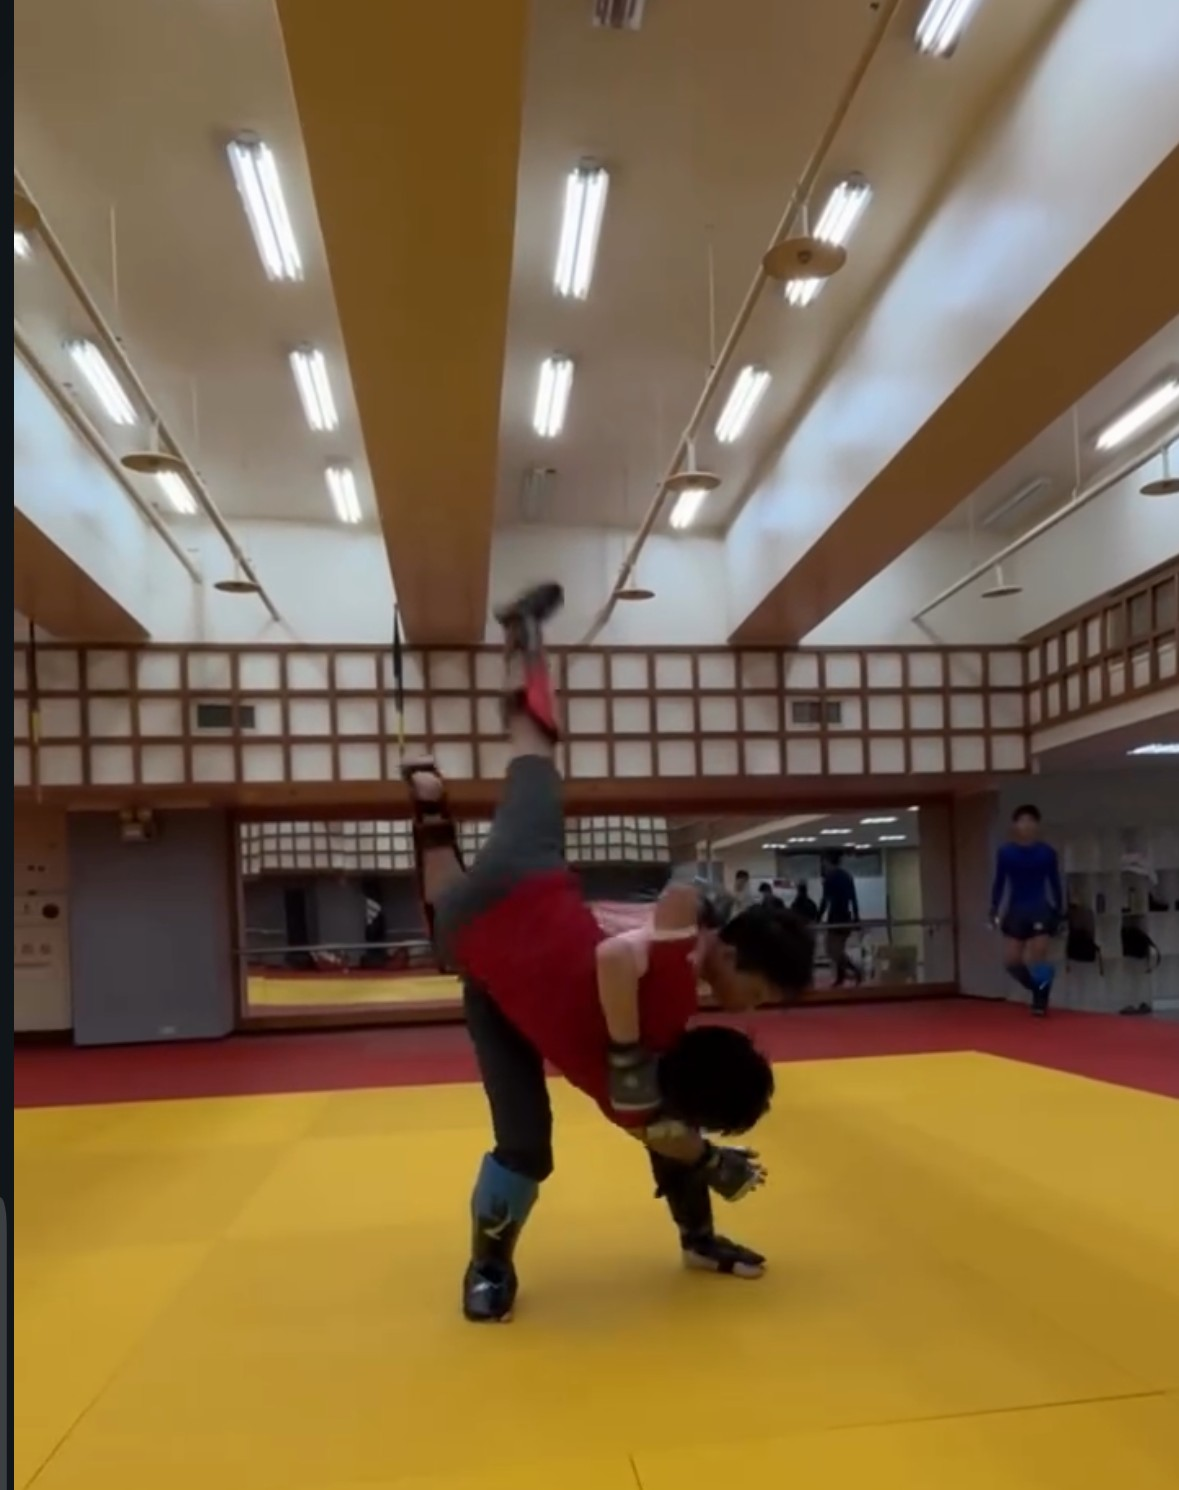
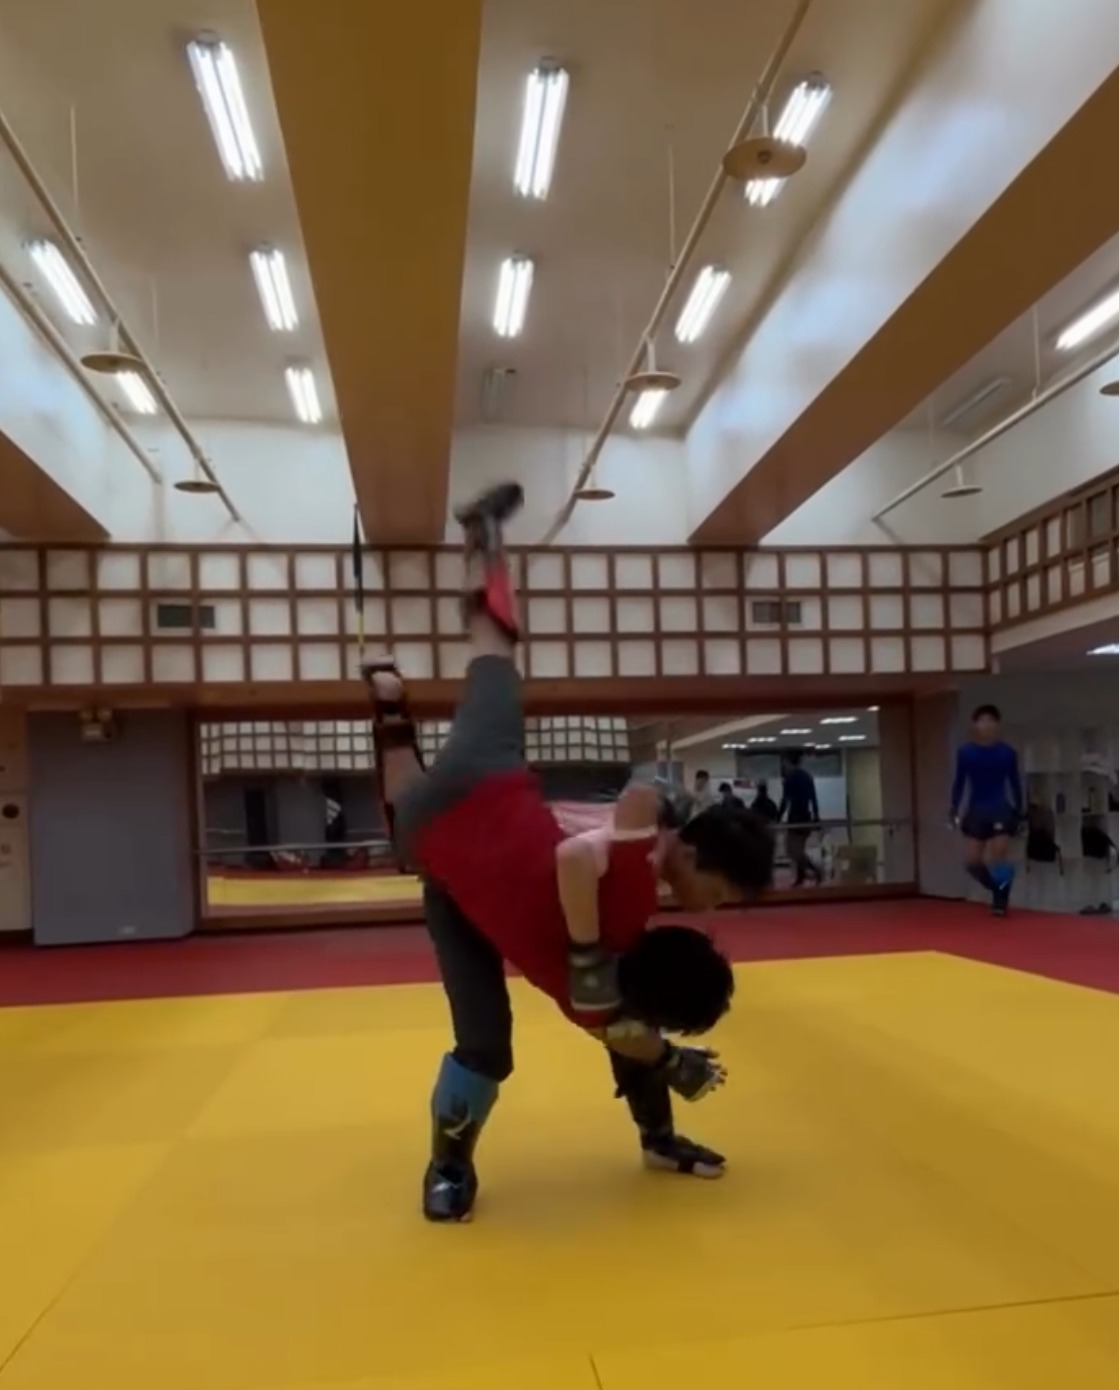
fix(ui): trim MMA left border, shift trekking poles to screen edges, add dark glass headers, click-to-switch multi-photo

diff --git a/src/components/AscentMode.tsx b/src/components/AscentMode.tsx
@@ -289,23 +289,24 @@ export const AscentMode: React.FC<AscentModeProps> = ({ onSelectWork }) => {
         <div className="absolute inset-0 bg-radial-gradient from-transparent via-[#0f1115]/40 to-[#0f1115]" />
       </div>
 
-      {/* 🧗♂ LAYER 2: Foreground Hands Layer (z-50, split clip-path, 0.95x scale & base sunk to 0.7x height) */}
-      {/* Hands image set to 0.95x scale (max-w-[950px] scale-95), sunk down (bottom-[-150px]) so only 70% of hand height shows */}
-      <div className="fixed bottom-[-150px] left-1/2 -translate-x-1/2 z-50 pointer-events-none w-full max-w-5xl h-[520px] flex justify-center items-end overflow-hidden">
-        {/* Left Hand Element */}
+      {/* 🧗♂ LAYER 2: Foreground Hands & Trekking Poles (Anchored to Left and Right Screen Edges to Keep Center Content Clear) */}
+      {/* Left Hand Element */}
+      <div className="fixed bottom-[-160px] left-[-70px] sm:left-[-30px] xl:left-[1%] z-20 pointer-events-none w-[340px] sm:w-[420px] lg:w-[460px] h-[520px] overflow-hidden">
         <img
           ref={leftHandRef}
           src="/hands_transparent.png"
           alt="Left Gloved Trekking Hand"
-          className="absolute bottom-0 w-full max-w-[950px] object-contain drop-shadow-2xl opacity-95 transform scale-95 origin-bottom"
+          className="absolute bottom-0 left-0 w-[680px] sm:w-[840px] lg:w-[920px] max-w-none object-contain drop-shadow-2xl opacity-90 origin-bottom"
           style={{ clipPath: 'polygon(0 0, 50% 0, 50% 100%, 0 100%)' }}
         />
-        {/* Right Hand Element */}
+      </div>
+      {/* Right Hand Element */}
+      <div className="fixed bottom-[-160px] right-[-70px] sm:right-[-30px] xl:right-[1%] z-20 pointer-events-none w-[340px] sm:w-[420px] lg:w-[460px] h-[520px] overflow-hidden">
         <img
           ref={rightHandRef}
           src="/hands_transparent.png"
           alt="Right Gloved Trekking Hand"
-          className="absolute bottom-0 w-full max-w-[950px] object-contain drop-shadow-2xl opacity-95 transform scale-95 origin-bottom"
+          className="absolute bottom-0 right-0 w-[680px] sm:w-[840px] lg:w-[920px] max-w-none object-contain drop-shadow-2xl opacity-90 origin-bottom"
           style={{ clipPath: 'polygon(50% 0, 100% 0, 100% 100%, 50% 100%)' }}
         />
       </div>
@@ -394,13 +395,13 @@ export const AscentMode: React.FC<AscentModeProps> = ({ onSelectWork }) => {
            SCENE 2: BASECAMP // CURIOSITY VAULT (800m)
            ========================================================================= */}
         <section className="ascent-milestone space-y-10 pt-12">
-          <div className="flex items-center gap-3">
-            <span className="text-xs font-mono px-2.5 py-1 rounded bg-teal-500/10 text-teal-400 border border-teal-500/20 backdrop-blur-md">
+          <div className="inline-flex items-center gap-3.5 px-4 py-2.5 rounded-2xl bg-[#12151b]/85 border border-white/10 backdrop-blur-md shadow-xl">
+            <span className="text-xs font-mono px-2.5 py-1 rounded bg-teal-500/10 text-teal-400 border border-teal-500/20">
               800m
             </span>
             <div>
-              <span className="text-[10px] font-mono text-slate-500 uppercase tracking-widest">WAYPOINT 01</span>
-              <h2 className="text-2xl font-bold text-[#f0ede6] tracking-wide">Basecamp: Identity & Vault</h2>
+              <span className="text-[10px] font-mono text-teal-400/80 uppercase tracking-widest">WAYPOINT 01</span>
+              <h2 className="text-xl sm:text-2xl font-bold text-teal-200 tracking-wide">Basecamp: Identity & Vault</h2>
             </div>
           </div>
 
@@ -448,13 +449,13 @@ export const AscentMode: React.FC<AscentModeProps> = ({ onSelectWork }) => {
            SCENE 3: CLINICAL AI RIDGE (1600m)
            ========================================================================= */}
         <section className="ascent-milestone space-y-8">
-          <div className="flex items-center gap-3">
-            <span className="text-xs font-mono px-2.5 py-1 rounded bg-emerald-500/10 text-emerald-400 border border-emerald-500/20 backdrop-blur-md">
+          <div className="inline-flex items-center gap-3.5 px-4 py-2.5 rounded-2xl bg-[#12151b]/85 border border-white/10 backdrop-blur-md shadow-xl">
+            <span className="text-xs font-mono px-2.5 py-1 rounded bg-emerald-500/10 text-emerald-400 border border-emerald-500/20">
               1600m
             </span>
             <div>
-              <span className="text-[10px] font-mono text-slate-500 uppercase tracking-widest">WAYPOINT 02</span>
-              <h2 className="text-2xl font-bold text-[#f0ede6] tracking-wide">Clinical AI & Research Station</h2>
+              <span className="text-[10px] font-mono text-emerald-400/80 uppercase tracking-widest">WAYPOINT 02</span>
+              <h2 className="text-xl sm:text-2xl font-bold text-emerald-200 tracking-wide">Clinical AI & Research Station</h2>
             </div>
           </div>
 
@@ -524,13 +525,13 @@ export const AscentMode: React.FC<AscentModeProps> = ({ onSelectWork }) => {
            SCENE 4: TECH HIGH PASS (2400m)
            ========================================================================= */}
         <section className="ascent-milestone space-y-8">
-          <div className="flex items-center gap-3">
-            <span className="text-xs font-mono px-2.5 py-1 rounded bg-sky-500/10 text-sky-400 border border-sky-500/20 backdrop-blur-md">
+          <div className="inline-flex items-center gap-3.5 px-4 py-2.5 rounded-2xl bg-[#12151b]/85 border border-white/10 backdrop-blur-md shadow-xl">
+            <span className="text-xs font-mono px-2.5 py-1 rounded bg-sky-500/10 text-sky-400 border border-sky-500/20">
               2400m
             </span>
             <div>
-              <span className="text-[10px] font-mono text-slate-500 uppercase tracking-widest">WAYPOINT 03</span>
-              <h2 className="text-2xl font-bold text-[#f0ede6] tracking-wide">Tech High Pass: Code Systems</h2>
+              <span className="text-[10px] font-mono text-sky-400/80 uppercase tracking-widest">WAYPOINT 03</span>
+              <h2 className="text-xl sm:text-2xl font-bold text-sky-200 tracking-wide">Tech High Pass: Code Systems</h2>
             </div>
           </div>
 
@@ -582,13 +583,13 @@ export const AscentMode: React.FC<AscentModeProps> = ({ onSelectWork }) => {
            SCENE 5: AUDIO PLATEAU (3200m)
            ========================================================================= */}
         <section className="ascent-milestone space-y-8">
-          <div className="flex items-center gap-3">
-            <span className="text-xs font-mono px-2.5 py-1 rounded bg-purple-500/10 text-purple-400 border border-purple-500/20 backdrop-blur-md">
+          <div className="inline-flex items-center gap-3.5 px-4 py-2.5 rounded-2xl bg-[#12151b]/85 border border-white/10 backdrop-blur-md shadow-xl">
+            <span className="text-xs font-mono px-2.5 py-1 rounded bg-purple-500/10 text-purple-400 border border-purple-500/20">
               3200m
             </span>
             <div>
-              <span className="text-[10px] font-mono text-slate-500 uppercase tracking-widest">WAYPOINT 04</span>
-              <h2 className="text-2xl font-bold text-[#f0ede6] tracking-wide">Audio Plateau: Compositions</h2>
+              <span className="text-[10px] font-mono text-purple-400/80 uppercase tracking-widest">WAYPOINT 04</span>
+              <h2 className="text-xl sm:text-2xl font-bold text-purple-200 tracking-wide">Audio Plateau: Compositions</h2>
             </div>
           </div>
 
@@ -713,13 +714,13 @@ export const AscentMode: React.FC<AscentModeProps> = ({ onSelectWork }) => {
            SCENE 6: OTHER INTERESTS (3600m)
            ========================================================================= */}
         <section className="ascent-milestone space-y-8">
-          <div className="flex items-center gap-3">
-            <span className="text-xs font-mono px-2.5 py-1 rounded bg-amber-500/10 text-amber-400 border border-amber-500/20 backdrop-blur-md">
+          <div className="inline-flex items-center gap-3.5 px-4 py-2.5 rounded-2xl bg-[#12151b]/85 border border-white/10 backdrop-blur-md shadow-xl">
+            <span className="text-xs font-mono px-2.5 py-1 rounded bg-amber-500/10 text-amber-400 border border-amber-500/20">
               3600m
             </span>
             <div>
-              <span className="text-[10px] font-mono text-slate-500 uppercase tracking-widest">WAYPOINT 05</span>
-              <h2 className="text-2xl font-bold text-[#f0ede6] tracking-wide">Other Interests</h2>
+              <span className="text-[10px] font-mono text-amber-400/80 uppercase tracking-widest">WAYPOINT 05</span>
+              <h2 className="text-xl sm:text-2xl font-bold text-amber-200 tracking-wide">Other Interests</h2>
             </div>
           </div>
 

diff --git a/src/components/InterestCard.tsx b/src/components/InterestCard.tsx
@@ -1,6 +1,6 @@
 import React, { useState } from 'react';
 import { InterestItem } from '../data/interests';
-import { ChevronLeft, ChevronRight } from 'lucide-react';
+import { Images } from 'lucide-react';
 
 interface InterestCardProps {
   item: InterestItem;
@@ -10,24 +10,26 @@ export const InterestCard: React.FC<InterestCardProps> = ({ item }) => {
   const images = item.secondaryImageUrl ? [item.imageUrl, item.secondaryImageUrl] : [item.imageUrl];
   const [activeIdx, setActiveIdx] = useState(0);
 
-  const nextImg = (e: React.MouseEvent) => {
-    e.stopPropagation();
-    setActiveIdx((prev) => (prev + 1) % images.length);
-  };
-
-  const prevImg = (e: React.MouseEvent) => {
-    e.stopPropagation();
-    setActiveIdx((prev) => (prev - 1 + images.length) % images.length);
+  const toggleImage = () => {
+    if (images.length > 1) {
+      setActiveIdx((prev) => (prev + 1) % images.length);
+    }
   };
 
   return (
     <div className="matte-card mist-card border border-white/15 bg-[#161920]/85 backdrop-blur-xl hover:border-amber-500/40 transition-all rounded-2xl overflow-hidden shadow-xl flex flex-col justify-between group">
-      {/* Image Container */}
-      <div className="relative w-full h-52 sm:h-56 bg-[#0f1115] overflow-hidden">
+      {/* Clickable Image Container */}
+      <div
+        onClick={toggleImage}
+        className={`relative w-full h-52 sm:h-56 bg-[#0f1115] overflow-hidden ${
+          images.length > 1 ? 'cursor-pointer' : ''
+        }`}
+        title={images.length > 1 ? 'Click photo to switch' : undefined}
+      >
         <img
           src={images[activeIdx]}
           alt={item.title}
-          className="w-full h-full object-cover transition-transform duration-500 group-hover:scale-105"
+          className="w-full h-full object-cover transition-transform duration-500 group-hover:scale-105 select-none"
           loading="lazy"
         />
         <div className="absolute inset-0 bg-gradient-to-t from-[#161920]/90 via-transparent to-transparent opacity-60" />
@@ -39,35 +41,43 @@ export const InterestCard: React.FC<InterestCardProps> = ({ item }) => {
           </span>
         </div>
 
-        {/* Image pagination controls if multiple images */}
+        {/* Multiple photos hint & dot indicator at bottom center of the image */}
         {images.length > 1 && (
-          <div className="absolute bottom-2.5 right-2.5 flex items-center gap-1.5 bg-black/60 backdrop-blur-md px-2 py-1 rounded-full border border-white/10">
-            <button
-              onClick={prevImg}
-              className="text-slate-300 hover:text-white transition p-0.5"
-              title="Previous photo"
-            >
-              <ChevronLeft className="w-3.5 h-3.5" />
-            </button>
-            <span className="text-[10px] font-mono text-slate-300">
-              {activeIdx + 1}/{images.length}
-            </span>
-            <button
-              onClick={nextImg}
-              className="text-slate-300 hover:text-white transition p-0.5"
-              title="Next photo"
-            >
-              <ChevronRight className="w-3.5 h-3.5" />
-            </button>
+          <div className="absolute bottom-2.5 inset-x-0 flex justify-center items-center pointer-events-none">
+            <div className="flex items-center gap-1.5 px-2.5 py-1 rounded-full bg-black/65 backdrop-blur-md border border-white/15 text-[10px] font-mono text-slate-300 shadow-md">
+              <span>Click photo to switch</span>
+              <div className="flex gap-1 ml-1 items-center">
+                {images.map((_, idx) => (
+                  <span
+                    key={idx}
+                    className={`inline-block w-1.5 h-1.5 rounded-full transition-all ${
+                      activeIdx === idx ? 'bg-amber-400 scale-125' : 'bg-white/30'
+                    }`}
+                  />
+                ))}
+              </div>
+            </div>
           </div>
         )}
       </div>
 
       {/* Content */}
       <div className="p-5 flex-1 flex flex-col justify-between space-y-2">
-        <h4 className="text-base font-bold text-[#f0ede6] group-hover:text-amber-300 transition-colors">
-          {item.title}
-        </h4>
+        <div className="flex items-center justify-between">
+          <h4 className="text-base font-bold text-[#f0ede6] group-hover:text-amber-300 transition-colors">
+            {item.title}
+          </h4>
+          {images.length > 1 && (
+            <button
+              onClick={toggleImage}
+              className="flex items-center gap-1.5 px-2.5 py-1 rounded-full text-[10px] font-mono bg-amber-500/10 text-amber-400 border border-amber-500/25 hover:bg-amber-500/20 transition-all cursor-pointer"
+              title="Click to switch photo"
+            >
+              <Images className="w-3.5 h-3.5 text-amber-400" />
+              <span>2 Photos</span>
+            </button>
+          )}
+        </div>
         <p className="text-xs text-slate-300 font-light leading-relaxed">
           {item.summary}
         </p>
@@ -75,3 +85,4 @@ export const InterestCard: React.FC<InterestCardProps> = ({ item }) => {
     </div>
   );
 };
+

diff --git a/src/data/interests.ts b/src/data/interests.ts
@@ -52,3 +52,4 @@ export const INTERESTS_DATA: InterestItem[] = [
     accentColor: '#818cf8'
   }
 ];
+
